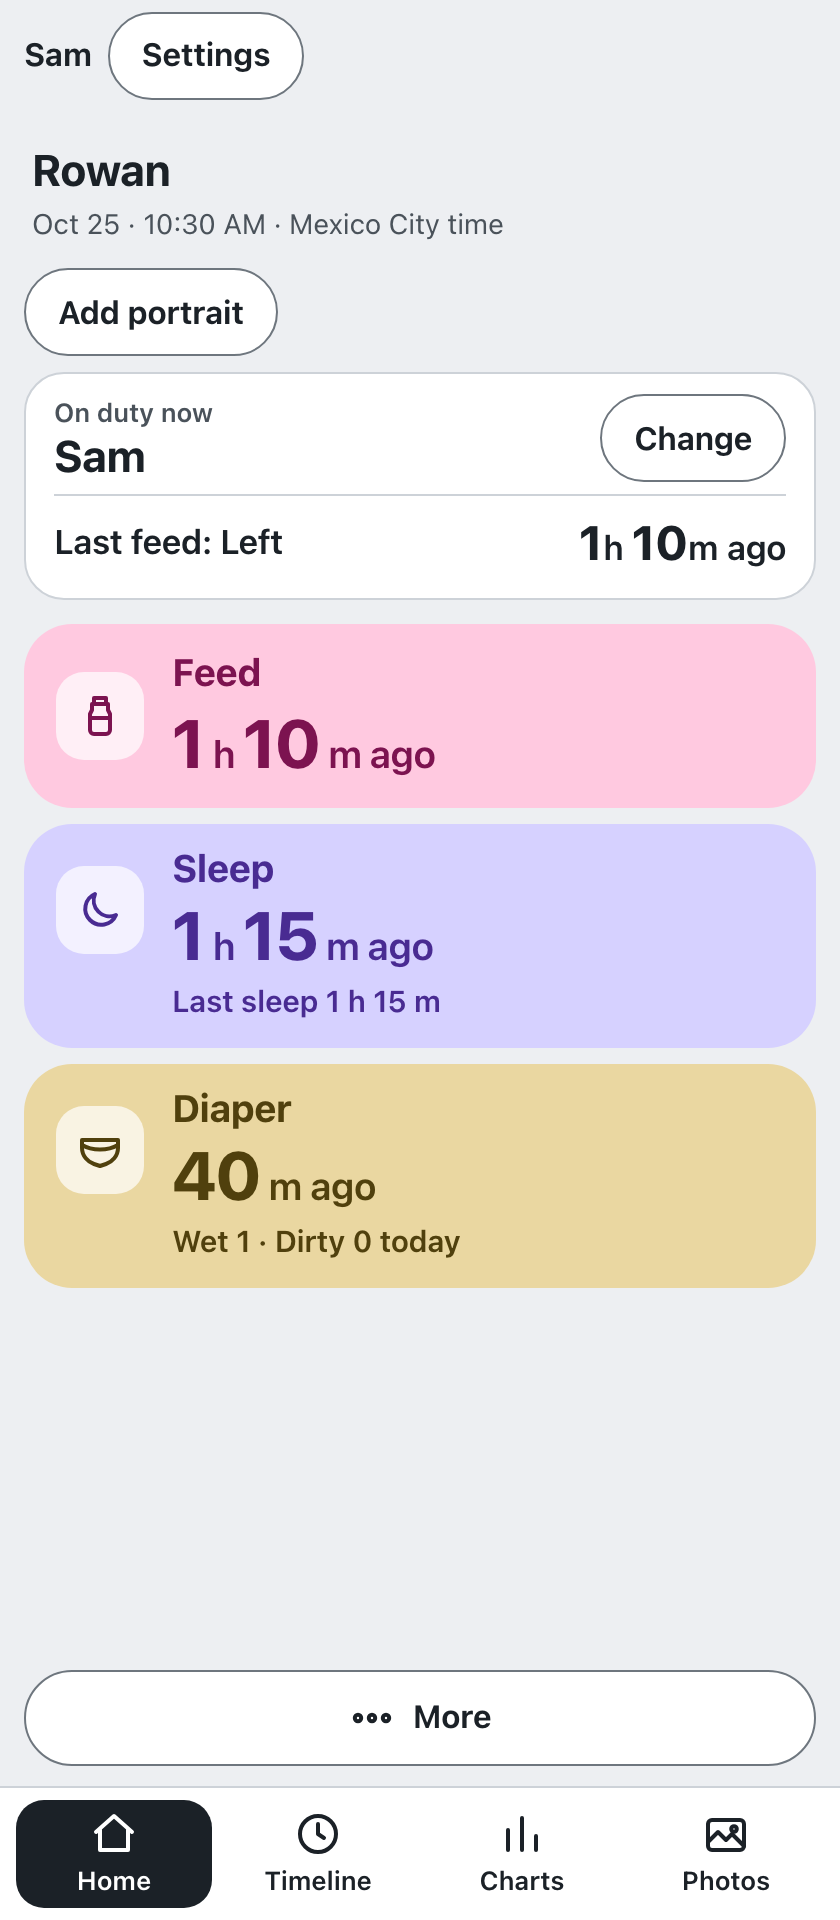
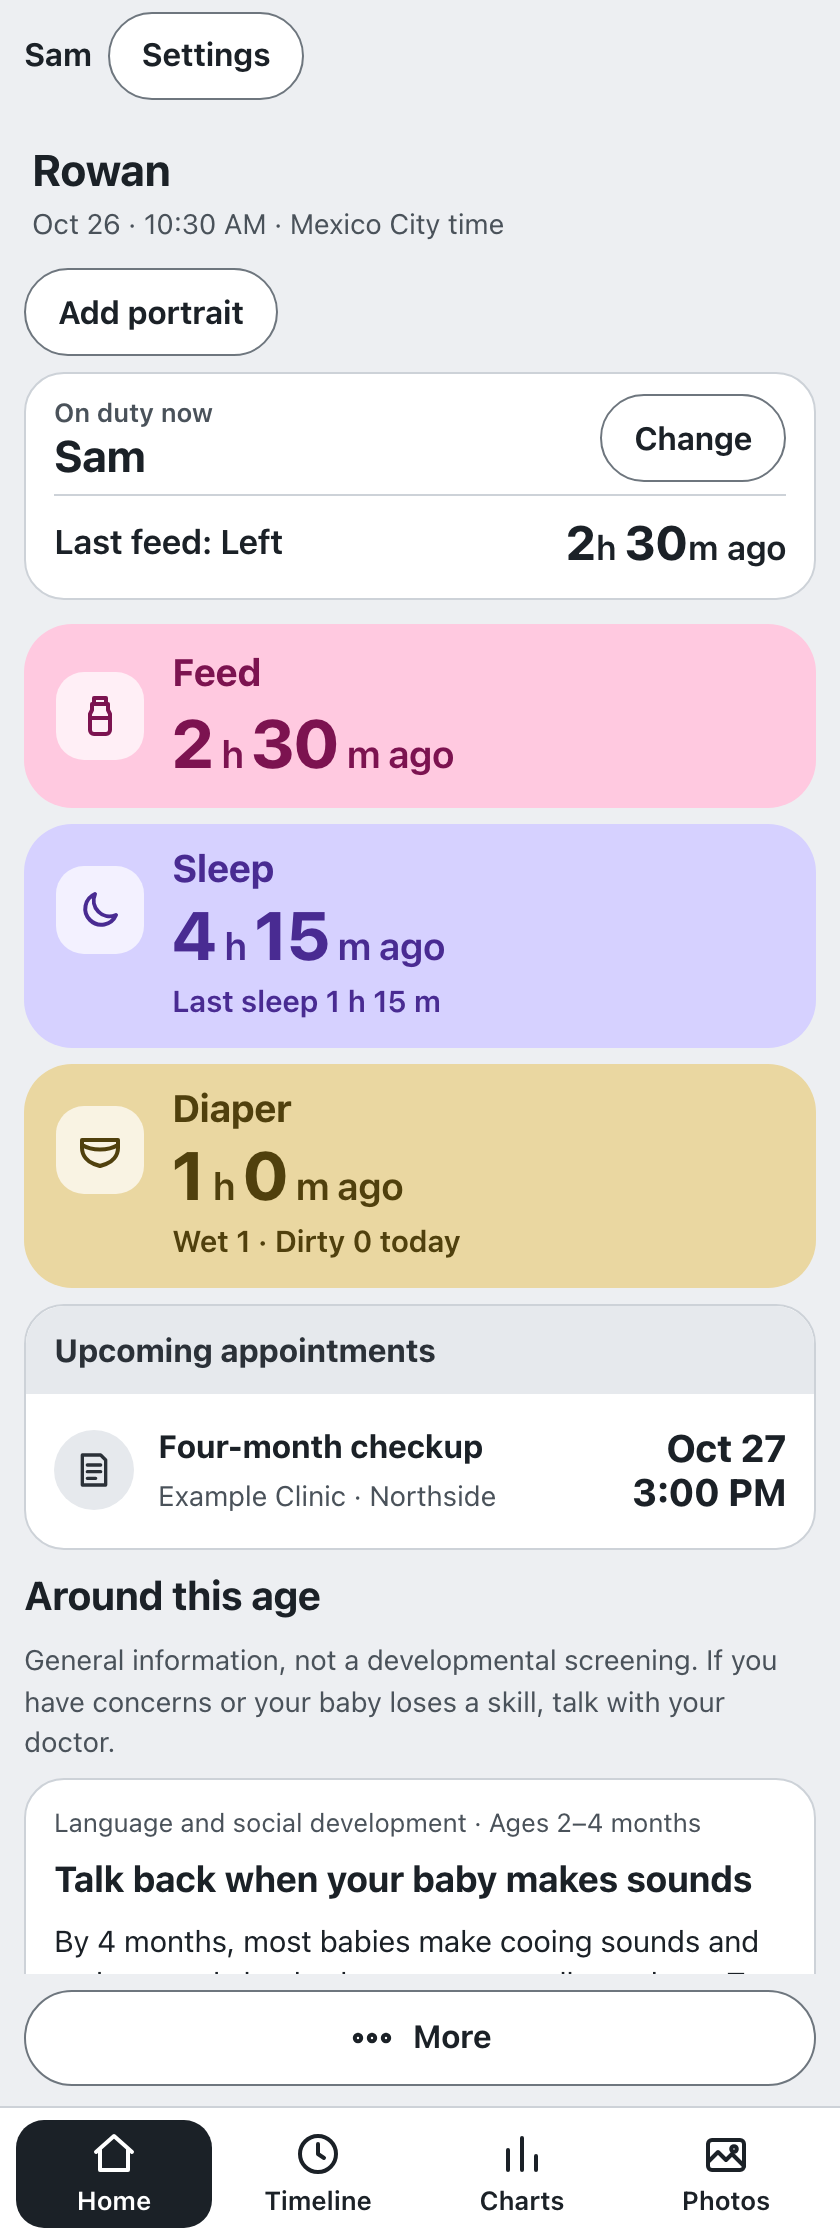
Show current private app features with invented records

diff --git a/README.md b/README.md
@@ -2,14 +2,16 @@
 
 A baby tracker I’m designing for my family.
 
-**Status: in development.** The next build is still under test.
+**Status: in development.** The setup conflict is resolved. Physical-phone checks and a full Mac mini restart remain.
 
 <img src="images/home.png" alt="Little Days home screen with invented feeding, sleep, and diaper records" width="420">
 
-Adults choose their name from a list. The current app supports feeds, sleep, diapers, notes, timeline edits, handoff notes, and care confirmations. It also has English and Spanish controls, unit settings, and a photo gallery.
+Adults choose their name from a list. The app supports feeds, sleep, diapers, notes, timeline edits, handoff notes, care confirmations, pediatrician appointments, and structured visit records.
+
+Seven-day charts show recorded care patterns. English and Spanish developmental cards use CDC, AAP, and AASM sources. They provide general information, not a developmental screening.
 
 <img src="images/timeline.png" alt="Timeline with four invented care records and the adults who logged them" width="420">
 
-Child setup still has an unresolved blocker when adults enter conflicting dates. Native-phone testing and restart checks remain unfinished. Reminder settings save preferences only; the app does not send reminders.
+The app does not send reminders and does not monitor crying.
 
 Screenshots use invented sample data. The app and family data are private.
